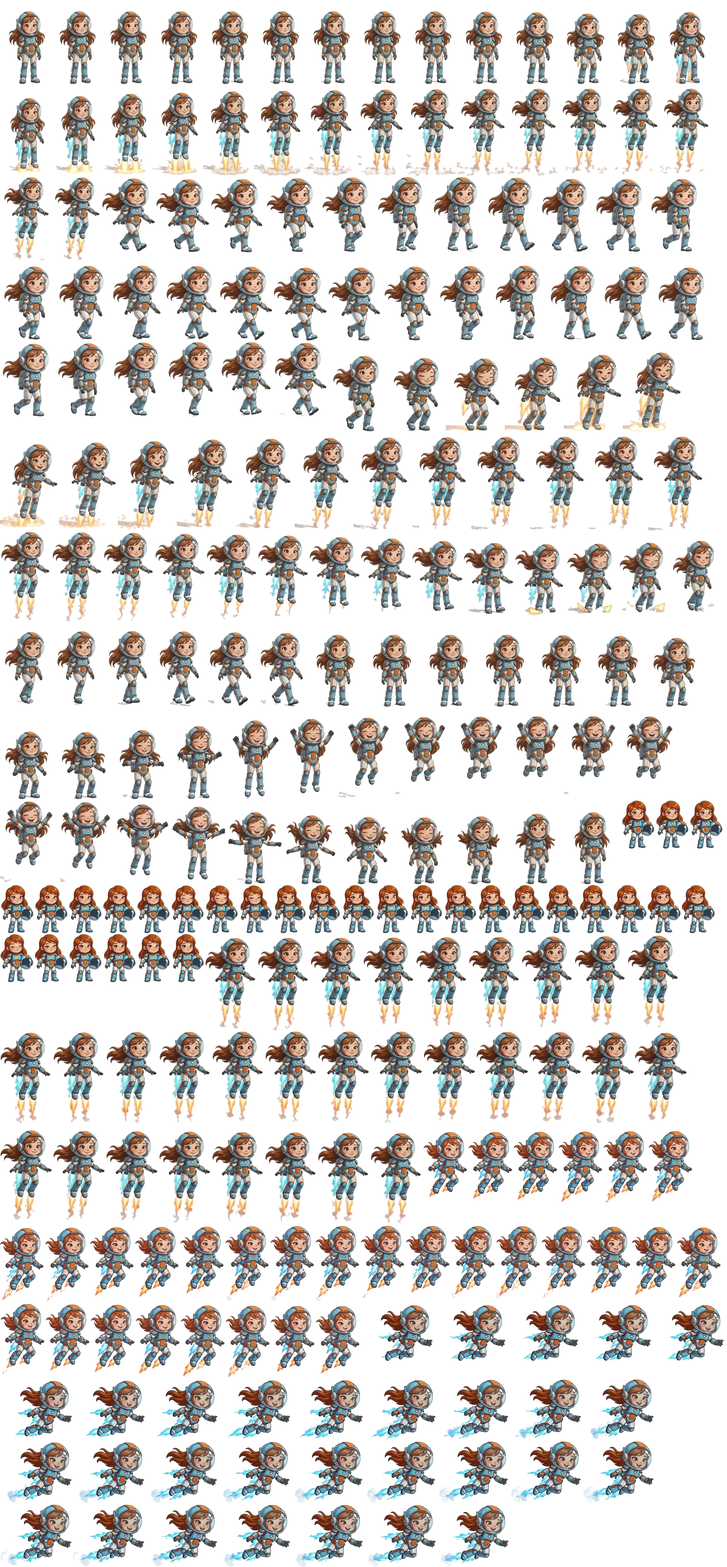
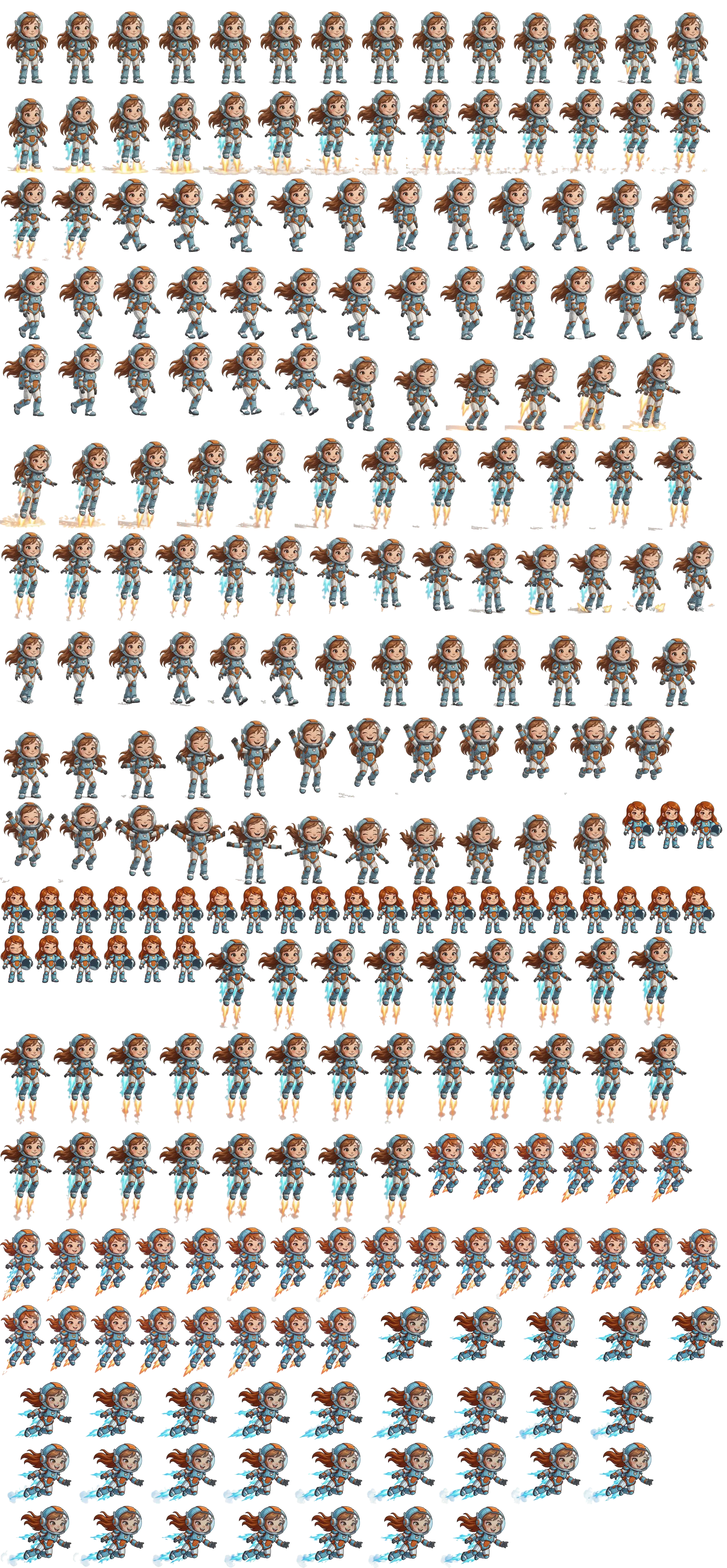
Rose : proportions du GIF « statique -> vol » et de la victoire alignées sur les autres (tête à la même taille)
Claude-Session: https://claude.ai/code/session_01FhTJbNJJAdhQd32yrScHvE

diff --git a/rose.html b/rose.html
@@ -27,8 +27,8 @@
 <script>
 (() => {
   // ---------- planche de Rose (assets/rose.webp + rose.json) ----------
-  const img = new Image(); img.src = 'assets/rose.webp?v=2';
-  let F = null; fetch('assets/rose.json?v=2').then(r => r.json()).then(j => { F = j; });
+  const img = new Image(); img.src = 'assets/rose.webp?v=3';
+  let F = null; fetch('assets/rose.json?v=3').then(r => r.json()).then(j => { F = j; });
   const N = (p) => { let n = 0; while (F[p + n]) n++; return n; };
 
   // ---------- réglages (en pixels de la planche : Rose mesure ~230 px du casque aux pieds) ----------

diff --git a/tools/rose/build2.py b/tools/rose/build2.py
@@ -11,11 +11,32 @@ A=[('rose_idle','statvol',.88,(191,538),range(0,10)),
    ('rose_pick','choix',.6/FINAL*.5,None,range(0,30))]
 FEET=424*.964
 AIR=[('rose_hover','stationnaire',.93,(197,24),range(0,30)),('rose_fly','vol_lent',.82,(198,29),range(0,30)),('rose_dash','vol_rapide',1.02,(321,25),range(0,30))]
+import numpy as np
+# Dans le GIF « statique -> vol » (et un peu dans la victoire), Rose est plus longiligne : tête plus petite pour la même taille.
+# On agrandit l'image pour que la tête ait la même taille qu'ailleurs, puis on tasse doucement le bas du corps
+# pour garder la même hauteur casque -> pieds : la silhouette rejoint celle des autres animations.
+FIX={'statvol':(1.16,538),'victoire':(1.08,540)}
+def refit(im,src,gy):
+    if src not in FIX: return im, gy
+    g,gy0=FIX[src]; a=np.asarray(im); al=a[...,3]>40; ys=np.where(al.any(1))[0]; top=ys[0]
+    W,H=im.size; big=im.resize((round(W*g),round(H*g)),Image.LANCZOS); B=np.asarray(big)
+    t2=top*g; ground2=gy0*g; Hf=gy0-top                     # hauteur voulue casque -> sol
+    split=t2+(ground2-t2)*.42                               # au-dessus : tête et épaules intactes
+    keep=split-t2; rest=Hf-keep; src_rest=ground2-split     # en dessous : tassé pour retomber sur le sol
+    out_h=round(top+Hf+(B.shape[0]-ground2)*(rest/src_rest)+2)
+    ys_out=np.arange(out_h); ysrc=np.where(ys_out<top+keep, t2+(ys_out-top), split+(ys_out-top-keep)*src_rest/rest)
+    ysrc=np.clip(ysrc,0,B.shape[0]-1)
+    y0=np.floor(ysrc).astype(int); y1=np.minimum(y0+1,B.shape[0]-1); w=(ysrc-y0)[:,None,None]
+    O=(B[y0]*(1-w)+B[y1]*w).astype(np.uint8)
+    xoff=round((big.width-W)/2); O=O[:,xoff:xoff+W] if big.width>=W else O
+    return Image.fromarray(O,'RGBA'), gy0
 ims=[]
 for nm,src,s,anc,rg in A:
     k=s*FINAL
     for j,i in enumerate(rg):
-        im=Image.open(f'{src}_{i:02d}.png'); im=im.resize((round(im.width*k),round(im.height*k)),Image.LANCZOS)
+        im=Image.open(f'{src}_{i:02d}.png')
+        if anc: im,_=refit(im,src,anc[1])
+        im=im.resize((round(im.width*k),round(im.height*k)),Image.LANCZOS)
         ax,ay=(anc[0]*k,anc[1]*k) if anc else (im.width/2,im.height)
         ims.append((f'{nm}{j}',im,ax,ay))
 for nm,src,s,(px,py),rg in AIR:
